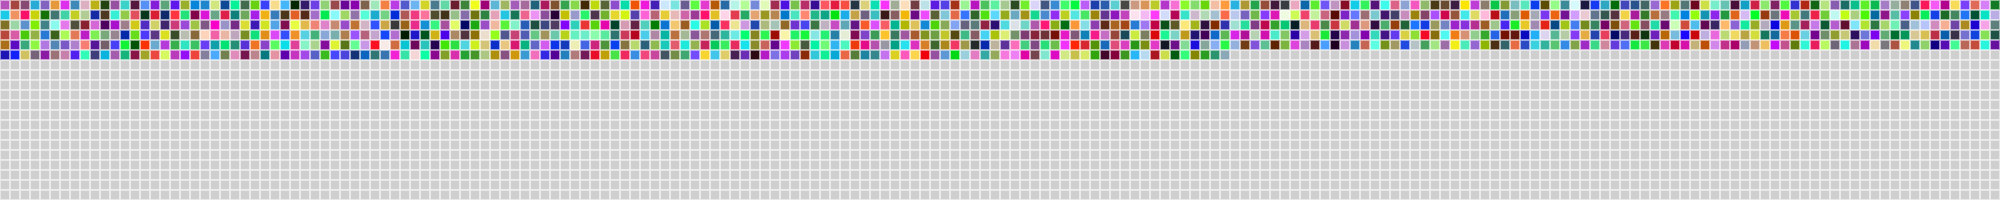
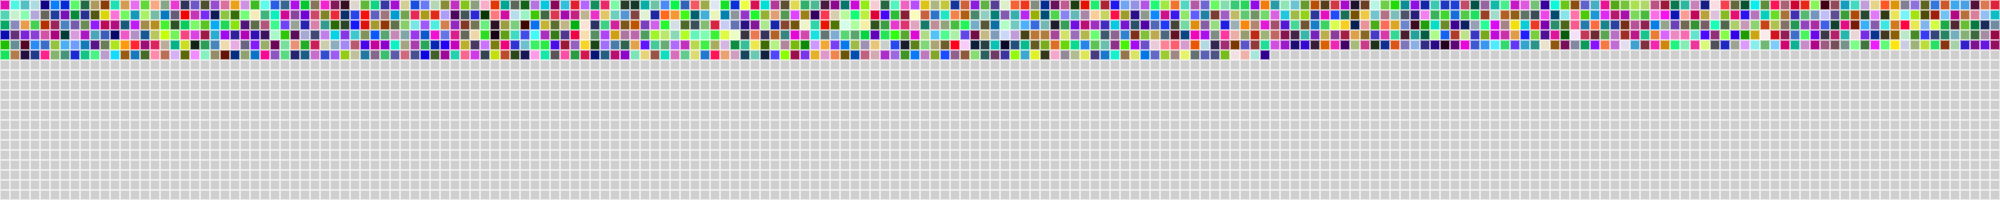
update readme

Changed region(s): [[0.0, 0.0, 1.0, 0.3]]

diff --git a/index.js b/index.js
@@ -1,7 +1,28 @@
+import * as fs from 'fs';
 import generateWeekchartImage from "./src/weekchart/weekchart.index.js";
 
+function writeReadme(percent) {
+  const now = new Date();
+  const readme = `\
+# Hi there 👋 How are you doing
+
+### Did you know? the average human life spans 4,000 weeks.
+❓ **Do you have statistics about how you use?**
+
+So far, I do. For me, it was approximately ${Math.round(percent / 4000 * 100)}% of my life; it was the beginning of my professional career. And I've decided to spend it doing software engineering. 
+
+📊 So, this graph represents my remaining life time spent attempting to improve and learn new things every day.
+
+![weekchart.png](src/weekchart/weekchart.png)
+
+⏰ Updated on: ${now.toISOString()}
+`;
+  fs.writeFileSync('./README.md', readme);
+}
+
 async function main() {
-  await generateWeekchartImage();
+  const weeks = await generateWeekchartImage();
+  writeReadme(weeks);
 }
 
 main();

diff --git a/src/weekchart/weekchart.index.js b/src/weekchart/weekchart.index.js
@@ -1,4 +1,9 @@
+import config from "../config.js";
 import browserServiceFactory from "../services/browser.service.js";
+
+function weeksBetween(d1, d2) {
+  return Math.round((d2 - d1) / (7 * 24 * 60 * 60 * 1000));
+}
 
 export default async function generateWeekchartImage() {
   const browserService = browserServiceFactory;
@@ -18,4 +23,6 @@ export default async function generateWeekchartImage() {
     fullPage: false,
   });
   await browserService.close();
+  const today = new Date();
+  return weeksBetween(config.birthday, today);
 }

diff --git a/src/weekchart/weekchart.functions.js b/src/weekchart/weekchart.functions.js
@@ -23,7 +23,7 @@ function createBox(color = randomColor()) {
 function createWeekChart() {
   const weekChart = document.getElementById("week-chart-container");
   const today = new Date();
-  const start = new Date(2002, 9, 16);
+  const start = new Date(2002, 8, 16);
   const weeks = weeksBetween(start, today);
   const weekLeft = 4000 - weeks;
   for (let i = 0; i < weeks; i++) {

diff --git a/src/config.js b/src/config.js
@@ -1,0 +1,17 @@
+import dotenv from "dotenv";
+
+class Config {
+  constructor() {
+    dotenv.config();
+  }
+
+  load() {
+    const date = process.env.BIRTHDAY.split("-");
+    const birthday = new Date(date[0], date[1] - 1, date[2]);
+    return {
+      birthday: birthday,
+    };
+  }
+}
+
+export default new Config().load();

diff --git a/src/weekchart/index.html b/src/weekchart/index.html
@@ -1,6 +1,6 @@
 <!DOCTYPE html>
 <html lang="en">
-<script type="text/javascript" src="weekchart.functions.js"></script>
+<script type="text/javascript" src="weekchart.functions.js"></script></script>
 
 <body onload="createWeekChart()">
   <div id="week-chart-container">

diff --git a/README.md b/README.md
@@ -1,10 +1,29 @@
 # Hi there 👋 How are you doing
 
-### The average human life spans 4,000 weeks.
+### Did you know? the average human life spans 4,000 weeks.
 ❓ **Do you have statistics about how you use?**
 
-So far, I do. For me, it was approximately 28% of my life; it was the beginning of my professional career. And I've decided to spend it doing software engineering. 
+So far, I do. For me, it was approximately **28%** of my life; it was the beginning of my professional career. And I've decided to spend it doing software engineering. 
 
 📊 So, this graph represents my remaining life time spent attempting to improve and learn new things every day.
 
 ![weekchart.png](src/weekchart/weekchart.png)
+
+## ⭐ GitHub Stats
+![Profile views](https://komarev.com/ghpvc/?username=lrisia&color=orange)
+<picture decoding="async" loading="lazy">
+  <img alt="github stats" src="https://pixel-profile.vercel.app/api/github-stats?username=lrisia&theme=summer&pixelate_avatar=false&screen_effect=true
+">
+</picture>
+
+## 💻 Favorite Tech
+🔬 Tools, languages, and other things that I like to work with.
+
+![My Fav](https://skillicons.dev/icons?i=nodejs,ts,python,mongo,tailwind,docker,git,postman,vscode,discord)
+
+## Where to find me
+[![Medium Badge](https://img.shields.io/badge/-@iricea-000000?style=flat&labelColor=000000&logo=Medium&link=https://medium.com/@iricea)](https://medium.com/@iricea)
+### Lasest Blog Posts
+
+
+⏰ Updated on: 
